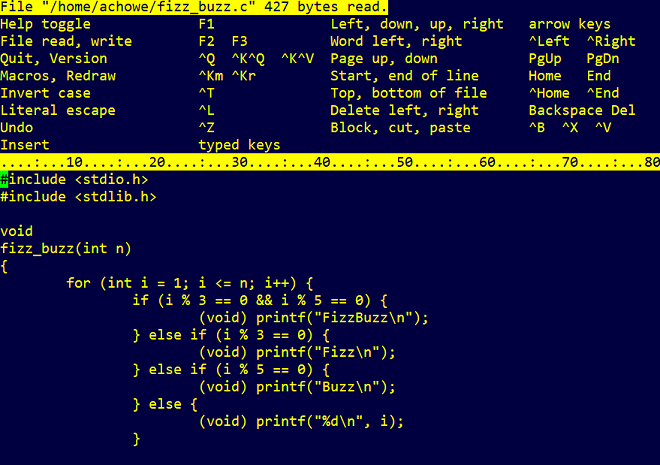
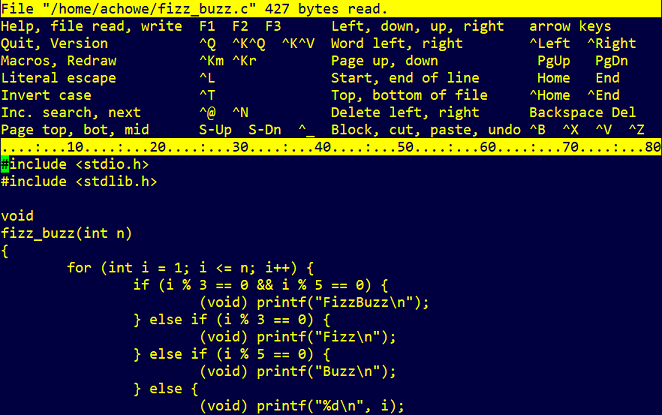
Update README screen images to reflect recent changes.

diff --git a/README.md b/README.md
@@ -1,4 +1,4 @@
-![AE Screen](./ae_modeless_xterm_75.png)
+![AE xterm bindings](./ae_modeless_xterm.png)
 
 ae - Anthony's Editor
 =====================
@@ -34,6 +34,7 @@ After, `ae` grew with additional commands, like block cut/paste, inline help, ma
 * The C Users Journal, November 1993, pg 121  
   <http://ftp.math.utah.edu/pub/tex/bib/toc/cccuj.html#11(11):November:1993>
 
+![AE modal bindings](./ae_modal.png)
 
 ### Rant
 
